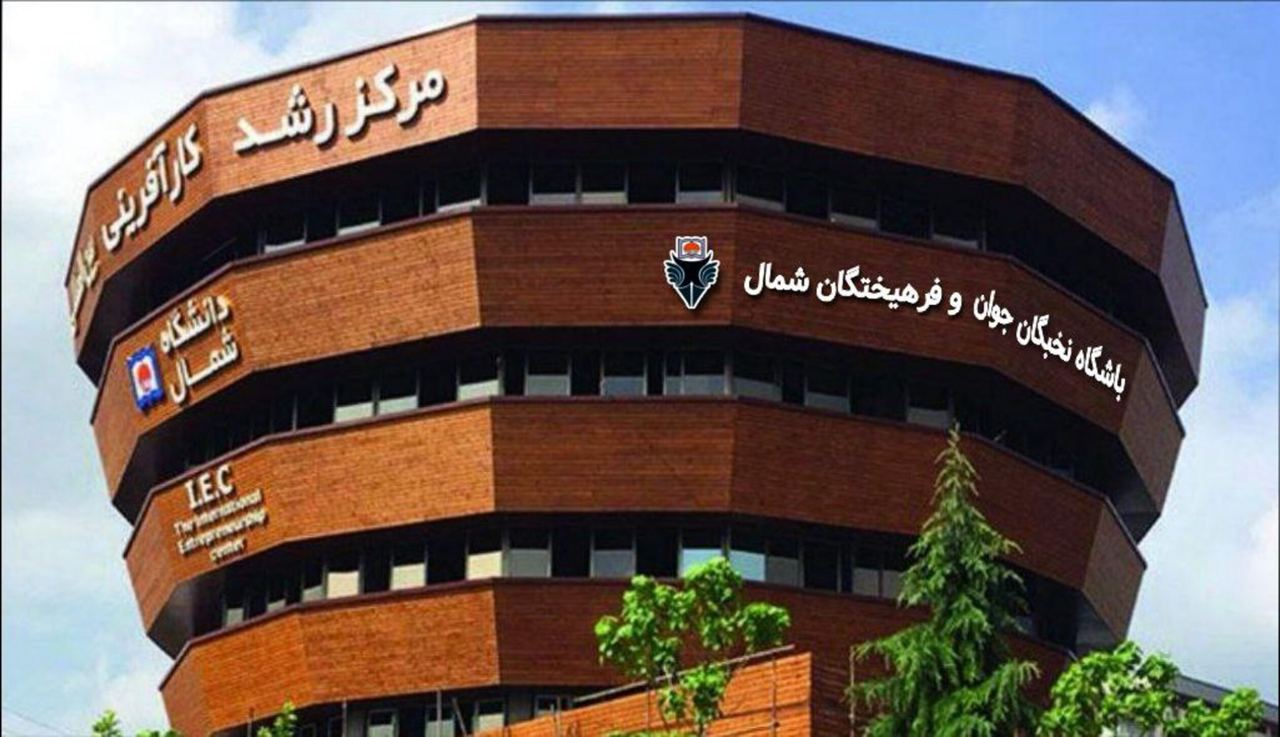
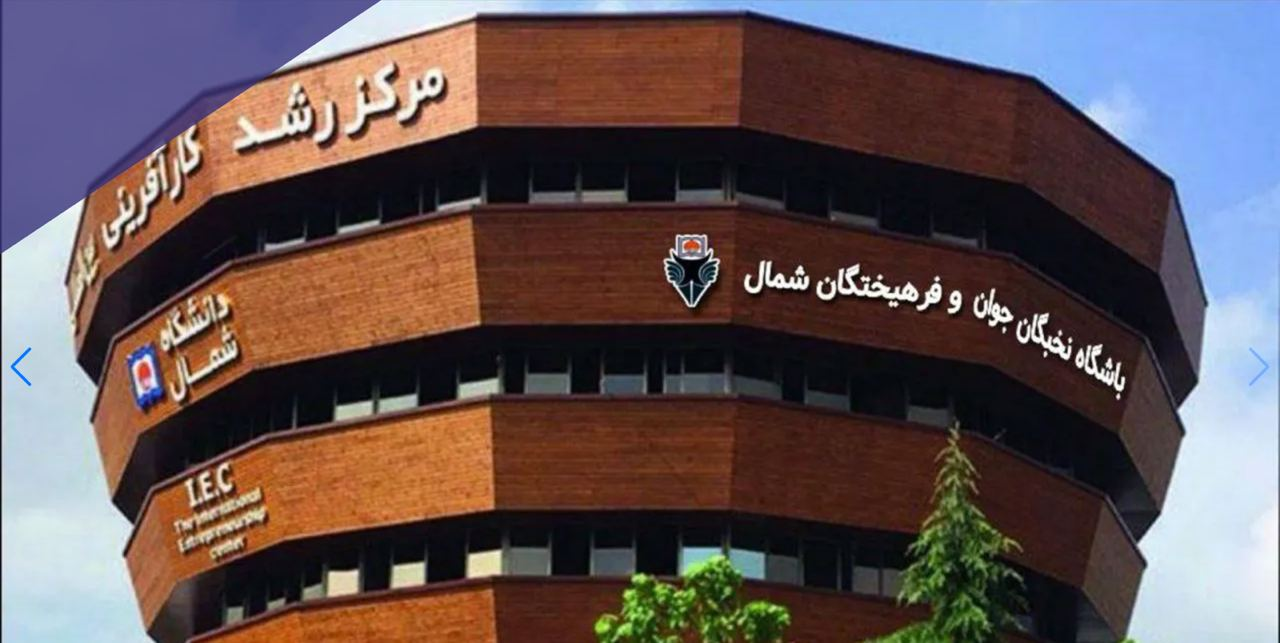
some changes for the present

diff --git a/src/app/organizational-structure/boss/page.jsx b/src/app/organizational-structure/boss/page.jsx
@@ -4,10 +4,7 @@ import Image from "next/image";
 
 export default function page() {
     const src1 = '/img/zare.jpg';
-    const src2 = '/img/zare.jpg';
-    const src3 = '/img/zare.jpg';
-    const src4 = '/img/zare.jpg';
-    const src5 = '/img/zare.jpg';
+    const src2 = '/img/home-main/IMG_20240128_231607_615.jpg';
 
     return (
         <div>
@@ -27,54 +24,12 @@ export default function page() {
                     <div style={{ textAlign: 'justify' }}>
                         کریم زارع (۱۳۲۹ شیراز) استاد تمام دانشگاه شهید بهشتی و دانشگاه آزاد اسلامی است. که در دوره چهارم مجلس شورای اسلامی نمایندگی شیراز در حوزه انتخابیه استان فارس را برعهده داشتهاست. زارع قبلاً ریاست دانشگاه تربیت معلم (تهران-کرج-اراک-کاشان-یزد-زاهدان و …) و نخستین رئیس واحد در میان واحدهای دانشگاه آزاد اسلامی (واحد تبریز) بودهاست. وی از سال 1397 با حکم رئیس هیئت امناء دانشگاه شمال به سمت ریاست باشگاه نخبگان و فرهیختگان جوان شمال انتخاب گردید
                     </div>
+                    <br />
+                    <Image className="mx-auto rounded-3xl" src={src2} blurDataURL={'img/wait.png'} placeholder="blur" width={600} height={600} alt="Activities" />
+                    <br />
                 </Container>
             </div>
-            <div>
-                <Container>
-                    <Box className='mx-auto md:w-1/4 w-1/2 mt-9'>
-                        <Image className="mx-auto rounded-3xl" src={src2} blurDataURL={'img/wait.png'} placeholder="blur" width={600} height={600} alt="Activities" />
-                        <div className="text-center">ریاست باشگاه</div>
-                    </Box>
-                </Container>
-                <Container>
-                    <Box className='mx-auto flex flex-col'>
-                        <div className="w-1/2" style={{ height: '35px', borderLeft: '2px solid black' }}></div>
-                        <div className="w-2/3 mx-auto" style={{ height: '1px', borderTop: '2px solid black' }}></div>
-                        <div className="flex justify-between" style={{ marginTop: '-2px' }}>
-                            <div className="w-full">
-                                <div className="w-1/2" style={{ height: '35px', borderLeft: '2px solid black' }}></div>
-                            </div>
-                            <div className="w-full">
-                                <div className="w-1/2" style={{ height: '35px', borderLeft: '2px solid black' }}></div>
-                            </div>
-                            <div className="w-full">
-                                <div className="w-1/2" style={{ height: '35px', borderLeft: '2px solid black' }}></div>
-                            </div>
-                        </div>
-                    </Box>
-                </Container>
-                <Container>
-                    <Box className='mx-auto'>
-                        <div className="flex justify-center">
 
-                            <div className="text-center md:w-1/4 w-1/3 mx-1">
-                                <span className="text-center">معاون اجرایی</span>
-                                <Image className="mx-auto rounded-3xl" src={src3} blurDataURL={src3} placeholder="blur" width={600} height={600} alt="Activities" />
-                            </div>
-
-                            <div className="text-center md:w-1/4 w-1/3 mx-1">
-                                <span className="text-center">معاون هماهنگی</span>
-                                <Image className="mx-auto rounded-3xl" src={src4} blurDataURL={src4} placeholder="blur" width={600} height={600} alt="Activities" />
-                            </div>
-
-                            <div className="text-center md:w-1/4 w-1/3 mx-1">
-                                <span className="text-center sm:text-sm text-xs">معاون اقتصادی و اداری</span>
-                                <Image className="mx-auto rounded-3xl" src={src5} blurDataURL={src5} placeholder="blur" width={600} height={600} alt="Activities" />
-                            </div>
-                        </div>
-                    </Box>
-                </Container>
-            </div>
         </div>
     )
 }

diff --git a/src/components/home/Footer.jsx b/src/components/home/Footer.jsx
@@ -10,47 +10,14 @@ export default function Footer() {
         <Grid container spacing={2} className="p-3 bg-blue-950 text-slate-50">
             <Grid item xs={12} sm={5} className="grid-item">
                 <List>
-                    <Link href='http://farsi.khamenei.ir/index.html' target='_blank'>
+                    <Link href='https://karafarini.shomal.ac.ir' target='_blank'>
                         <ListItem className='py-0'>
                             <ListItemIcon sx={{ color: 'orange' }}>
                                 <GoGoal />
                             </ListItemIcon>
                             <ListItemText
                                 sx={{ textAlign: 'right' }}
-                                primary="دفتر مقام معظم رهبری"
-                            />
-                        </ListItem>
-                    </Link>
-                    <Link href='http://www.president.ir/fa/' target='_blank'>
-                        <ListItem className='py-0'>
-                            <ListItemIcon sx={{ color: 'orange' }}>
-                                <GoGoal />
-                            </ListItemIcon>
-                            <ListItemText
-                                sx={{ textAlign: 'right' }}
-                                primary="دفتر ریاست جمهوری"
-                            />
-                        </ListItem>
-                    </Link>
-                    <Link href='http://www.imam-khomeini.ir/' target='_blank'>
-                        <ListItem className='py-0'>
-                            <ListItemIcon sx={{ color: 'orange' }}>
-                                <GoGoal />
-                            </ListItemIcon>
-                            <ListItemText
-                                sx={{ textAlign: 'right' }}
-                                primary="موسسه تنظیم و نشر آثار امام خمینی (ره)"
-                            />
-                        </ListItem>
-                    </Link>
-                    <Link href='http://www.msrt.ir/fa/pages/Home.aspx' target='_blank'>
-                        <ListItem className='py-0'>
-                            <ListItemIcon sx={{ color: 'orange' }}>
-                                <GoGoal />
-                            </ListItemIcon>
-                            <ListItemText
-                                sx={{ textAlign: 'right' }}
-                                primary="ارتباطات مردمی ریاست جمهوری"
+                                primary="مرکز رشد و کارافرینی و شکوفایی بین المللی دانشگاه شمال"
                             />
                         </ListItem>
                     </Link>
@@ -103,6 +70,13 @@ export default function Footer() {
                 <div className='flex flex-row'>
                     <span>
                         <span className=''>دفتر مرکزی<span style={{ color: 'red' }}>:</span></span> مازندران، آمل، کلیومتر ۵ جاده هراز، دو راهی امامزاده عبدلله
+                    </span>
+                </div>
+                <div className='flex flex-row'>
+                    <span>
+                        <span className=''>دفتر مرکزی تهران<span style={{ color: 'red' }}>:</span></span>
+                        &nbsp;
+                        خیابان کریمخان زند، بین ایرانشهر و خردمند جنوبی، پلاک 108
                     </span>
                 </div>
                 <br />

diff --git a/src/utils/tagsAndRoles.js b/src/utils/tagsAndRoles.js
@@ -4,7 +4,7 @@ export const tagOptions = [
     'انرژی های نو و تجدید پذیر',
     'علوم آب و پساب های صنعتی',
     'نانو ساختار و فناوری های مربوطه',
-    'هواپیمایی و هوانوردی',
+    'شتاب دهنده',
     'محیط زیست (انسانی - طبیعی)',
     'منابع طبیعی و کشاورزی',
     'نفت و گاز',
@@ -25,6 +25,11 @@ export const tagOptions = [
     'معماری و گرایش های مربوطه',
     'شیمی فیزیک',
     'امور اقتصادی و مالی',
+    'متخصصین و مدیران',
+    'سرمایه گذاری در طرحهای دانش بنیان نخبگان',
+    'بازاریابی و تبلیغات',
+    'هوش مصنوعی',
+    'جامعه شناسی',
     'ادمین',
     'رئیس باشگاه',
 ];
@@ -34,7 +39,7 @@ export const tags = [
     'انرژی های نو و تجدید پذیر',
     'علوم آب و پساب های صنعتی',
     'نانو ساختار و فناوری های مربوطه',
-    'هواپیمایی و هوانوردی',
+    'شتاب دهنده',
     'محیط زیست (انسانی - طبیعی)',
     'منابع طبیعی و کشاورزی',
     'نفت و گاز',
@@ -54,7 +59,45 @@ export const tags = [
     'مهندسی و برنامه ریزی حمل و نقل',
     'معماری و گرایش های مربوطه',
     'شیمی فیزیک',
-    'امور اقتصادی و مالی'
+    'امور اقتصادی و مالی',
+    'متخصصین و مدیران',
+    'سرمایه گذاری در طرحهای دانش بنیان نخبگان',
+    'بازاریابی و تبلیغات',
+    'هوش مصنوعی',
+    'جامعه شناسی'
+];
+
+export const supervisors = [
+    'دکتر سالار صابر زعیمیان',
+    'دکتر غلامحسین شفیعی',
+    'دکتر رضا فضائلی',
+    'دکتر امید مرادی',
+    'دکتر ارش رادمهر',
+    'دکتر فرشاد هاشم زاده',
+    'دکتر علی کاظمی تبریزی',
+    'دکتر زهره یوسفیان ملا',
+    'دکتر ارشیا بادی',
+    'دکتر احمد دهقان فر',
+    'دکتر رضا منصف',
+    'دکتر محسن یوسفی فر',
+    'دکتر شهرام قره چارلو',
+    'دکتر احمد مقیمی',
+    'دکتر احمد شاهورانی',
+    'دکتر سحر بنی یعقوب',
+    'دکتر مرصع امانی',
+    'دکتر عباس کریمی',
+    'دکتر علی ناصری',
+    'دکتر کامران پاشائی فخری',
+    'دکتر امیررضا احمدنژاد',
+    'دکتر غلامرضا شیرازیان',
+    'دکتر علی نعمتی',
+    'دکتر علی کاظمی',
+    'دکتر رضاییان',
+    'دکتر ایمان مصدری',
+    'دکتر مهدی مصلحی',
+    'دکتر نعمت الله دارش',
+    'دکتر محمدرضا خلیل زاده',
+    'دکتر سید محمد صدوق'
 ];
 
 export const roles = ["ادمین", "کاربر عادی"];

diff --git a/src/components/home/Clubs.jsx b/src/components/home/Clubs.jsx
@@ -1,0 +1,57 @@
+'use client'
+import { useState } from "react";
+import { Box, Container, Grid, Typography } from "@mui/material";
+import InputLabel from '@mui/material/InputLabel';
+import MenuItem from '@mui/material/MenuItem';
+import FormControl from '@mui/material/FormControl';
+import Select from '@mui/material/Select';
+import { tags, supervisors } from "@/utils/tagsAndRoles";
+
+export default function Clubs() {
+    const [currentClub, setCurrentClub] = useState(0);
+
+    const handleChange = (event) => {
+        const { value } = event.target;
+        setCurrentClub(value)
+    };
+
+    return (
+        <div>
+            <Container>
+                <Box className='mx-auto md:w-3/5 w-100'>
+                    <FormControl variant="filled" sx={{ m: 1, width: '100%', maxWidth: '500px' }}>
+                        <InputLabel id="demo-simple-select-standard-label">
+                            باشگاه
+                        </InputLabel>
+                        <Select
+                            labelId="demo-simple-select-standard-label"
+                            id="demo-simple-select-standard"
+                            className="bg-white"
+                            value={currentClub}
+                            onChange={handleChange}
+                            label="Age"
+                        >
+                            {
+                                tags.map((v, i) => {
+                                    return <MenuItem key={i} className="mx-2" value={i}>
+                                        {v}
+                                    </MenuItem>
+                                })
+                            }
+                        </Select>
+                    </FormControl>
+                </Box>
+
+                <br />
+
+                <Box>
+                    <div className="my-2">نام باشگاه: {tags[currentClub]}</div>
+                    <div>نام سرپرست: {supervisors[currentClub]}</div>
+                </Box>
+
+                <br />
+
+            </Container>
+        </div>
+    )
+}

diff --git a/src/components/home/MenuNav.jsx b/src/components/home/MenuNav.jsx
@@ -88,7 +88,7 @@ export default function MenuNav() {
                         <Divider orientation='vertical' sx={{ backgroundColor: 'white', height: '50%' }} />
 
                         <li className='text-center'>
-                            <Link href="/authentication" className="text-slate-50"> &nbsp; &nbsp;باشگاه های تخصصی &nbsp;</Link>
+                            <Link href="/clubs" className="text-slate-50"> &nbsp; &nbsp;باشگاه های تخصصی &nbsp;</Link>
                         </li>
 
                         <Divider orientation='vertical' sx={{ backgroundColor: 'white', height: '50%' }} />
@@ -192,7 +192,7 @@ export default function MenuNav() {
                                             </li>
                                             <li className='py-1 px-5 sm:px-3 md:px-5 lg:px-10'>
                                                 <Box sx={{ fontSize: { xs: '10px', sm: '15px', md: '20px', lg: '23px', paddingX: { xs: '5px', sm: '4px', md: '6px', lg: '8px' } } }} onClick={handleClose}>
-                                                    <Link href='/organizational-structure/boss'>
+                                                    <Link href='/strategic'>
                                                         شورای راهبردی
                                                     </Link>
                                                 </Box>

diff --git a/src/app/strategic/page.jsx b/src/app/strategic/page.jsx
@@ -3,20 +3,14 @@ import { Box, Container, Typography } from "@mui/material";
 import Image from "next/image";
 
 export default function page() {
-    const src1 = '/img/home-main/IMG_20240128_231614_116.jpg';
+    const src1 = '/img/home-main/IMG_20240128_231605_077.jpg';
 
     return (
         <div>
             <nav className="mt-1">
                 <MenuNav />
             </nav>
-            <div className="mt-4 mr-4">
-                <Typography variant="h1" sx={{ fontSize: { xs: '18px', sm: '20px', md: '22px' } }}>
-                    اعضا هیئت امنا
-                </Typography>
-            </div>
             <div>
-
                 <Container>
                     <Box className='mx-auto md:w-3/5 w-100 my-9'>
                         <Image className="mx-auto rounded-3xl" src={src1} blurDataURL={'img/wait.png'} placeholder="blur" width={600} height={600} alt="Activities" />

diff --git a/src/app/clubs/page.jsx b/src/app/clubs/page.jsx
@@ -1,0 +1,14 @@
+import MenuNav from "@/components/home/MenuNav";
+import Clubs from "@/components/home/Clubs";
+
+export default function page() {
+
+    return (
+        <div>
+            <nav className="mt-1">
+                <MenuNav />
+            </nav>
+            <Clubs />
+        </div>
+    )
+}

diff --git a/src/components/home/HomeSwiper.jsx b/src/components/home/HomeSwiper.jsx
@@ -13,7 +13,7 @@ const items = [
         src: '/img/home-main/IMG_20231004_155303_382.jpg',
     },
     {
-        src: '/img/home-main/IMG_20240128_195205_221.jpg',
+        src: '/img/home-main/IMG_20240128_231618_726.jpg',
     },
     {
         src: '/img/home-main/IMG_20240128_195206_989.jpg',
